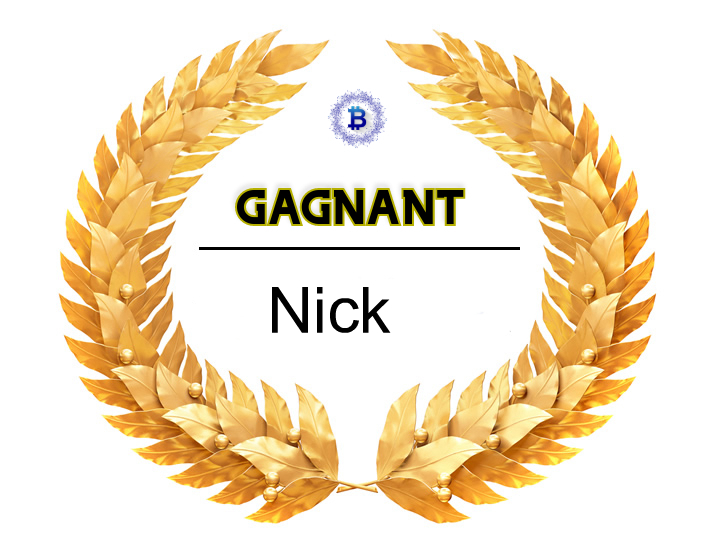
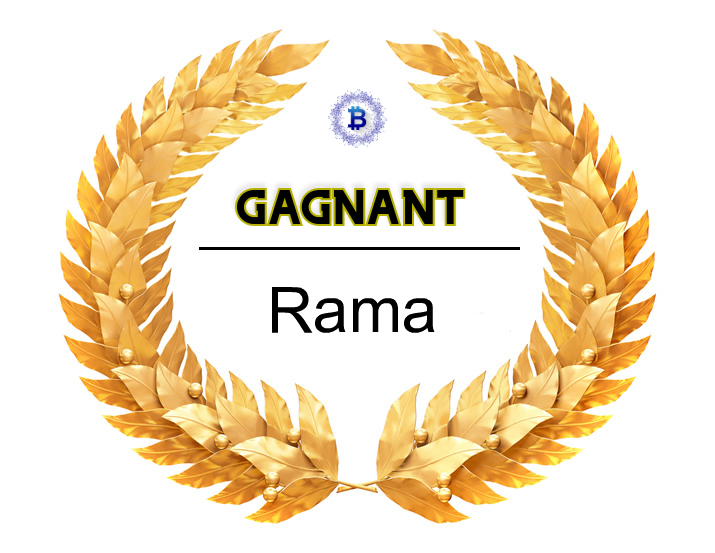
1.0.0--Release

Changed region(s): [[0.3692, 0.4919, 0.6154, 0.6148]]

diff --git a/services/blockchain.js b/services/blockchain.js
@@ -1,7 +1,7 @@
 const Web3 = require('web3');
 const fs = require('fs');
 const solc = require('solc');
-const MINIMAL_POWER = 99.98; // Minimal balance must be at least 5 Ethers
+const MINIMAL_POWER = 99.95; // Minimal balance must be at least 5(99.95 for test) Ethers
 let VOTING_END = false; // If all accounts have ehers less than MINIMAL_POWER, so that we end the voting
 let HEAD_NODE = '';
 
@@ -82,7 +82,7 @@ const bankingAbiDefinition = [
 let bankingContract = web3.eth.contract(bankingAbiDefinition);
 // The contract address must be changed for each deployment
 bankingContractInstance = bankingContract.at(
-  '0x388c70ccb540d658151cd278f1ddaf6a6d4f3a76'
+  '0x7f823f65b82d7008d8bafbe02af7886ef06862a3'
 );
 
 // ------------------------- Voting contract -------------------------

diff --git a/contracts/DEPLOY-VOTING.md b/contracts/DEPLOY-VOTING.md
@@ -21,7 +21,7 @@ $ node
 > contractInstance.voteForCandidate('Rama', {from: web3.eth.accounts[0]})
 > contractInstance.getCandidateList.call().toString()
 > contractInstance.markVoter('0x180524eD52a43b5d3e1E88dae42d486c122bd3BB', {from: web3.eth.accounts[0]})
-> contractInstance.checkVoteStatus.call('0x1C10dE035539a5cdb39C5BEcaF767f78adeF6844').toString() // Check if an address was used for vote
+> contractInstance.checkVoteStatus.call('0x180524eD52a43b5d3e1E88dae42d486c122bd3BB').toString() // Check if an address was used for vote
[1 lines of base64/hex data omitted]
 > contractInstance.totalVotesFor.call('Rama').toString()
 ```
